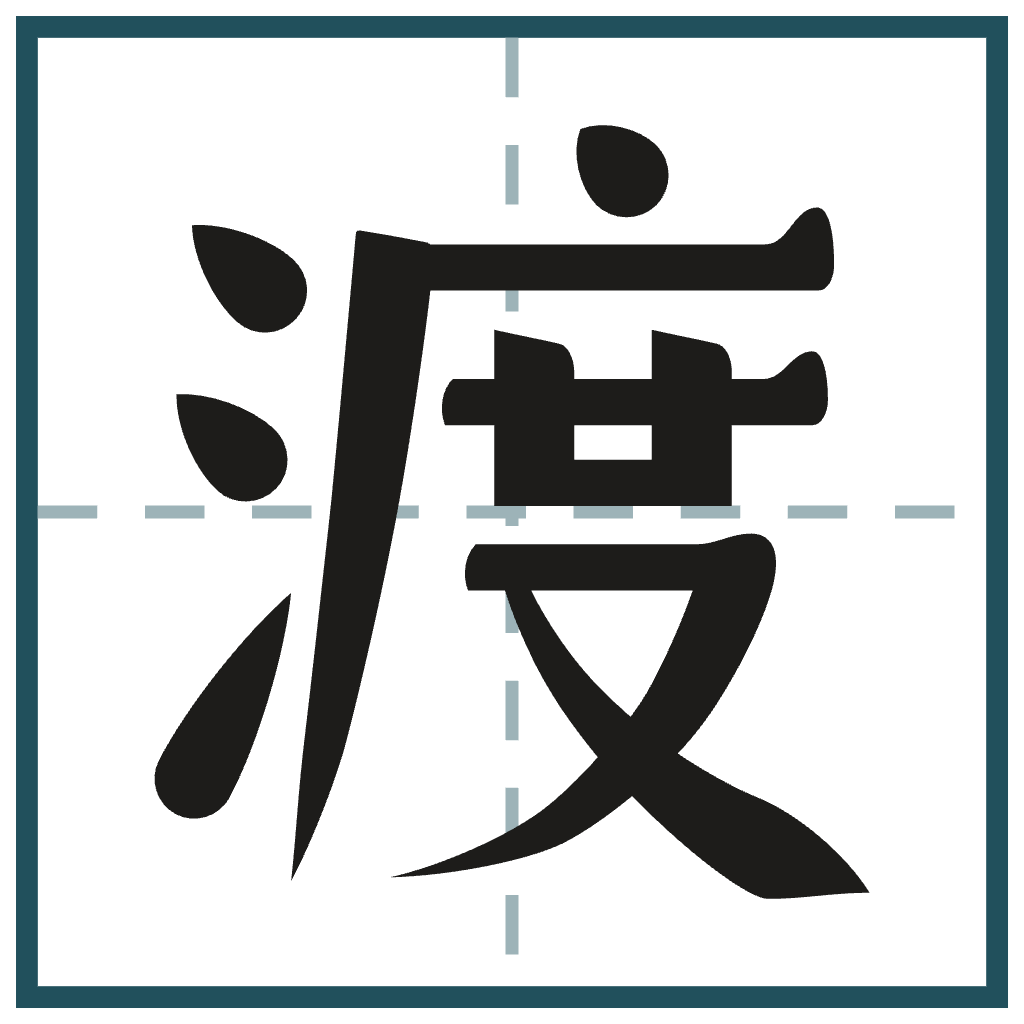
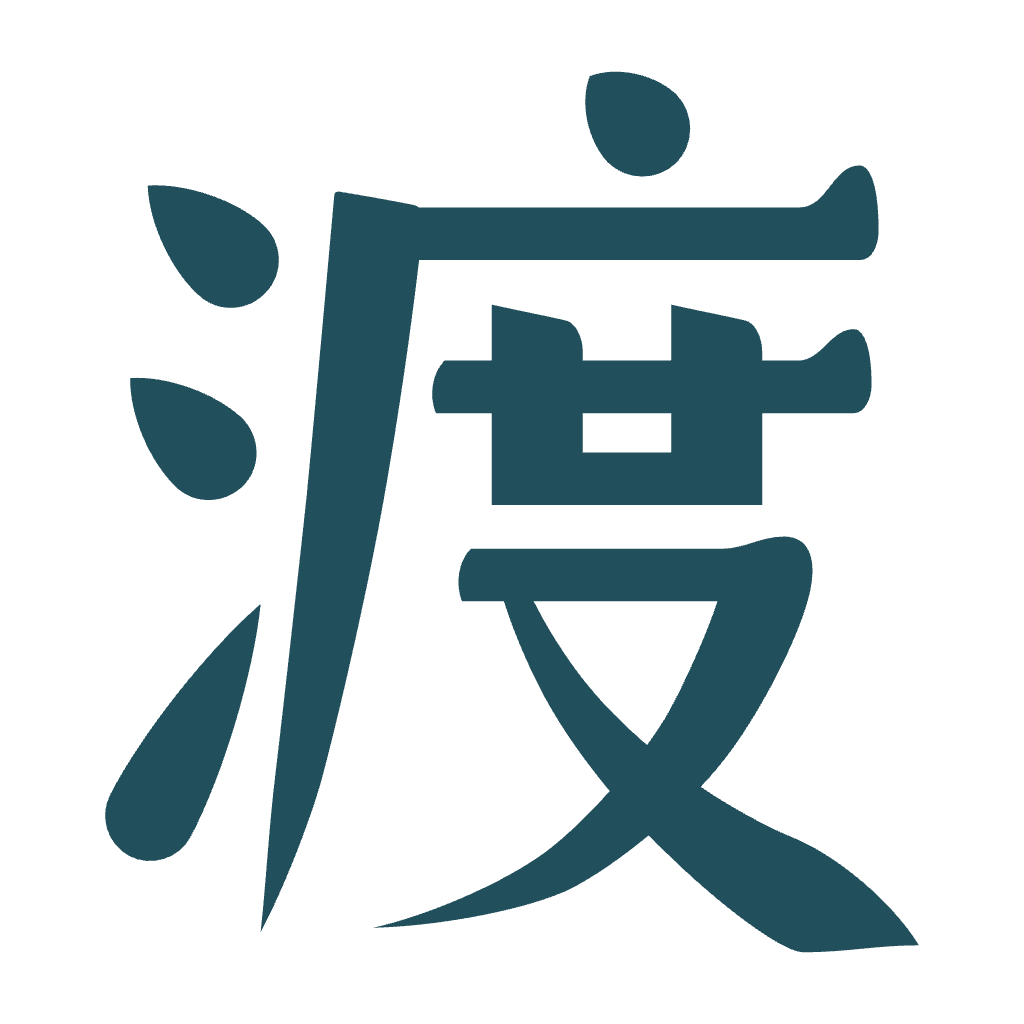
feat: 标志和封面换回两色字标与右边大「渡」，宣传语「一字一言」
- 文字标「Duyan 渡言」：西文墨色、汉字黛青；图标是黛青的「渡」；封面右边一个大「渡」
- 去掉田字格，宣传语改回「一字一言」，README 和小样页一起改
- 用当前字形重新生成（又 修顺、笔画少的字撑开之后的版本）

diff --git a/brand/cover.html b/brand/cover.html
@@ -6,39 +6,37 @@
 <style>
   /* 封面上只用渡言已经有的字；tools/brand.py 出图前会核对 */
   @font-face { font-family: DY; src: url("../sample/Duyan-Sample.otf") format("opentype"); }
-  :root { --ink: #1D1C1A; --paper: #F4F1EA; --accent: #21505C; --grid: #9DB3B8; --muted: #6F6A60; --line: #DED8CC; }
+  :root { --ink: #1D1C1A; --paper: #F4F1EA; --accent: #21505C; --muted: #6F6A60; --line: #DED8CC; }
   * { box-sizing: border-box; }
   html, body { margin: 0; width: 1280px; height: 640px; overflow: hidden; background: var(--paper); color: var(--ink); font-family: DY; }
-  .page { position: relative; width: 1280px; height: 640px; padding: 56px 80px; text-align: center; }
-  .meta { font-size: 15px; letter-spacing: .22em; color: var(--muted); }
-  /* 名字写在田字格里：汉字还在练 */
-  .lockup { display: flex; justify-content: center; align-items: center; gap: 18px; margin-top: 46px; }
-  .box { width: 214px; height: 214px; border: 4px solid var(--accent); font-size: 166px; line-height: 204px; padding-top: 8px;
-         background:
-           repeating-linear-gradient(to bottom, var(--grid) 0 12px, transparent 12px 22px) center / 2.5px 100% no-repeat,
-           repeating-linear-gradient(to right, var(--grid) 0 12px, transparent 12px 22px) center / 100% 2.5px no-repeat; }
-  .latin { font-size: 150px; line-height: 1; margin-left: 40px; font-kerning: normal; }
-  .lead { font-size: 40px; margin: 40px 0 0; }
-  .lead-en { font-size: 23px; margin: 12px 0 0; color: var(--muted); }
-  .spec { position: absolute; left: 80px; right: 80px; bottom: 74px; display: flex; justify-content: center; gap: 44px; font-size: 18px;
-          color: var(--muted); border-top: 1px solid var(--line); padding-top: 20px; }
+  .page { position: relative; width: 1280px; height: 640px; padding: 64px 80px; }
+  .meta { font-size: 15px; letter-spacing: .2em; color: var(--muted); }
+  h1 { font-weight: 400; font-size: 118px; line-height: 1; margin: 40px 0 0; font-kerning: normal; }
+  h1 span { color: var(--accent); margin-left: .26em; }
+  .lead { font-size: 36px; margin: 34px 0 0; }
+  .lead-en { font-size: 26px; margin: 10px 0 0; color: var(--muted); }
+  .big { position: absolute; right: 84px; top: 78px; font-size: 350px; line-height: 1; color: var(--accent); }
+  .spec { position: absolute; left: 80px; right: 80px; bottom: 120px; display: flex; gap: 44px; font-size: 18px; color: var(--muted);
+          border-top: 1px solid var(--line); padding-top: 22px; }
   .spec b { color: var(--accent); font-weight: 400; margin-right: .55em; }
-  .url { position: absolute; left: 0; right: 0; bottom: 34px; font-size: 16px; color: var(--muted); }
+  .sample { position: absolute; left: 80px; right: 80px; bottom: 56px; font-size: 25px; display: flex; justify-content: space-between; }
+  .sample .url { color: var(--muted); font-size: 18px; align-self: flex-end; }
 </style>
 </head>
 <body>
 <div class="page">
   <div class="meta">CHINESE AND LATIN SERIF / V0.7 / 2026.10</div>
-  <div class="lockup"><div class="box">渡</div><div class="box">言</div><div class="latin">Duyan</div></div>
-  <div class="lead">一笔一笔练出来的字。</div>
-  <div class="lead-en">Learning to write, one stroke at a time.</div>
+  <h1>Duyan<span>渡言</span></h1>
+  <div class="lead">一字一言。</div>
+  <div class="lead-en">Every stroke drawn from scratch.</div>
+  <div class="big">渡</div>
   <div class="spec">
-    <span><b>Han</b>106 characters so far</span>
-    <span><b>Latin</b>A–Z a–z 0–9</span>
+    <span><b>Han</b>Song strokes, 106 so far</span>
+    <span><b>Latin</b>Bookish serif, A–Z 0–9</span>
     <span><b>Method</b>One pen, built in code</span>
     <span><b>License</b>SIL OFL 1.1</span>
   </div>
-  <div class="url">github.com/Sorasukiawa/Duyan</div>
+  <div class="sample"><span>山下江边，林中花草。The quick brown fox jumps over the lazy dog.</span><span class="url">github.com/Sorasukiawa/Duyan</span></div>
 </div>
 </body>
 </html>

diff --git a/sample/index.html b/sample/index.html
@@ -56,7 +56,7 @@
 <main>
   <div class="meta">DUYAN DRAFT · 小样 0.7 · 全部字形自绘</div>
   <div class="hero s">渡言 <span>Duyan</span></div>
-  <p class="lead">一笔一笔练出来的字。中文和英文用同一套笔法从零画出：竖粗横细，英文的楔形衬线对应横画末端的喙，英文的球形收笔对应汉字的点。汉字还在练，所以标志写在练字本的田字格里。没有使用任何现成字体的轮廓。</p>
+  <p class="lead">一字一言。中文和英文用同一套笔法从零画出：竖粗横细，英文的楔形衬线对应横画末端的喙，英文的球形收笔对应汉字的点。没有使用任何现成字体的轮廓。</p>
 
   <h2>一字一言</h2>
   <div class="big s">一字一言，天大人文。</div>
@@ -142,7 +142,7 @@
     <li>0.5：补齐英文字母、数字和常用标点，加上字距；N 的斜笔改成等宽的平行四边形。</li>
     <li>0.6：汉字改为按部件造字，做了第一批常用部件和 86 个常用字；「辶」中间那笔画成真正的横折折撇；「月」的框和框里的短横画成一条轮廓（叠着画时 Mac 的系统渲染会把重叠处画成镂空）。</li>
     <li>0.6 之后：定了汉字结构规范（字面框、部件间距、重心范围），左右、上下结构的部件按间距自动摆，出字体前逐字核对；修了「花」「草」部件相撞、「又」的撇捺太直、十几个字的捺脚伸出字身。</li>
-    <li>0.7：宣传语「一笔一笔练出来的字」，标志和封面改成练字本上的田字格；笔画少的字撑开，长横画到字面边上；补了「克」「写」「的」「来」「笔」「练」，新增笔画竖折折钩。</li>
+    <li>0.7：笔画少的字撑开，长横画到字面边上；补了「克」「写」「的」「来」「笔」「练」，新增笔画竖折折钩；标志和封面按新字形重新生成。</li>
     <li>下一步：继续按部件扩常用字，逐批校准；繁中、日文写法不同的字按地区分别画。</li>
   </ul>
 </main>

diff --git a/tools/brand.py b/tools/brand.py
@@ -1,8 +1,8 @@
 #!/usr/bin/env python3
 """生成渡言的文字标、单字图标和宣传封面，全部用渡言自己的字形。
 
-- brand/logo.svg、logo-dark.svg：文字标。「渡言」两个字各写在一个田字格里（练字本的格子：汉字还在练），后面跟西文 Duyan。
-- brand/mark.svg：田字格里一个「渡」，透明底；brand/icon.svg：纸色圆角方块上的同一个图案（头像、网站图标用）。
+- brand/logo.svg、logo-dark.svg：文字标「Duyan 渡言」（西文墨色，汉字黛青）。
+- brand/mark.svg：单字图标「渡」，透明底；brand/icon.svg：纸色圆角方块上的「渡」（头像、网站图标用）。
 - brand/cover.png：宣传封面 / GitHub 社交预览图，由 brand/cover.html 截图得到。
 
 SVG 里的字直接取 sample/Duyan-Sample.otf 的轮廓，不依赖装字体；PNG 用无界面的 Chrome 截图导出
@@ -34,7 +34,6 @@ CHROME = "/Applications/Google Chrome.app/Contents/MacOS/Google Chrome"
 
 INK, PAPER, ACCENT = "#1D1C1A", "#F4F1EA", "#21505C"          # 黛青：呼应「渡」的水色
 INK_DARK, ACCENT_DARK = "#ECE9E2", "#7FB3BE"
-GRID, GRID_DARK = "#9DB3B8", "#4E6A70"     # 田字格中间的虚线：黛青兑上纸色
 
 _font = TTFont(FONT)
 _gs, _cmap, _hmtx = _font.getGlyphSet(), _font.getBestCmap(), _font["hmtx"]
@@ -81,16 +80,6 @@ def mark(x, y, size, ch="渡", fill=ACCENT, fit=0.8):
     return g
 
 
-def tianzige(x, y, size, line=ACCENT, dash=GRID):
-    """田字格：外框实线，中间一横一竖虚线。"""
-    sw = max(2.0, size * 0.022)
-    d = size * 0.06
-    return (f'<g fill="none"><rect x="{x + sw / 2:.2f}" y="{y + sw / 2:.2f}" width="{size - sw:.2f}" height="{size - sw:.2f}" '
-            f'stroke="{line}" stroke-width="{sw:.2f}"/>'
-            f'<path d="M{x + size / 2:.2f} {y + sw:.2f}V{y + size - sw:.2f}M{x + sw:.2f} {y + size / 2:.2f}H{x + size - sw:.2f}" '
-            f'stroke="{dash}" stroke-width="{sw * 0.6:.2f}" stroke-dasharray="{d:.2f} {d * 0.8:.2f}"/></g>')
-
-
 def svg(w, h, body):
     return (f'<svg xmlns="http://www.w3.org/2000/svg" width="{w:.0f}" height="{h:.0f}" '
             f'viewBox="0 0 {w:.0f} {h:.0f}">{body}</svg>\n')
@@ -135,21 +124,20 @@ def main():
     os.makedirs(OUT, exist_ok=True)
     check_cover()
 
-    # 1. 文字标：「渡言」两个字各占一个田字格，后面跟 Duyan
-    box, gap = 150, 12
-    boxes = "".join(tianzige(k * (box + gap), 0, box) + mark(k * (box + gap), 0, box, ch, INK, fit=0.74)
-                    for k, ch in enumerate("渡言"))
-    x0 = 2 * box + gap + 44
-    en, ew, (et, eb) = text("Duyan", 118, x0, box * 0.74, INK)
-    w, h = x0 + ew + 8, box
-    body = boxes + en
+    # 1. 文字标：Duyan 渡言。汉字和西文同字号，汉字的字面本来就比大写略高，正好压得住
+    size, pad = 120, 6
+    en, ew, (et, eb) = text("Duyan", size, 0, 0, INK)
+    gap = size * 0.3
+    zh, zw, (zt, zb) = text("渡言", size, ew + gap, 0, ACCENT)
+    top, bottom = min(et, zt) - pad, max(eb, zb) + pad
+    w, h = ew + gap + zw + pad, bottom - top
+    body = f'<g transform="translate(0 {-top:.2f})">{en}{zh}</g>'
     write("logo.svg", svg(w, h, body))
-    write("logo-dark.svg", svg(w, h, body.replace(INK, INK_DARK).replace(ACCENT, ACCENT_DARK).replace(GRID, GRID_DARK)))
+    write("logo-dark.svg", svg(w, h, body.replace(INK, INK_DARK).replace(ACCENT, ACCENT_DARK)))
 
-    # 2. 单字图标：田字格里一个「渡」
-    write("mark.svg", svg(512, 512, tianzige(8, 8, 496) + mark(8, 8, 496, "渡", INK, fit=0.78)))
-    write("icon.svg", svg(512, 512, f'<rect width="512" height="512" rx="96" fill="{PAPER}"/>'
-                                    + tianzige(72, 72, 368) + mark(72, 72, 368, "渡", INK, fit=0.78)))
+    # 2. 单字图标
+    write("mark.svg", svg(512, 512, mark(0, 0, 512, fit=0.86)))
+    write("icon.svg", svg(512, 512, f'<rect width="512" height="512" rx="96" fill="{PAPER}"/>' + mark(64, 64, 384)))
 
     # 3. PNG 和封面
     httpd, base = serve()

diff --git a/README.md b/README.md
@@ -2,9 +2,9 @@
 
 # 渡言 Duyan
 
-**一笔一笔练出来的字。** 一款从零自绘的中英文衬线字体，正在造字中。
+**一字一言。** 一款从零自绘的中英文衬线字体，正在造字中。
 
-西文是温和、有书卷气的衬线，汉字用同一支笔来写：竖粗横细，点是圆圆的水滴，横画末端带一个圆润的喙。汉字还在练，所以标志写在练字本的田字格里，等字练好了，格子就可以拿掉。名字里的「渡」，是在中文和英文之间摆渡。所有字形都从零画出，没有使用任何现成字体的轮廓。
+西文是温和、有书卷气的衬线，汉字用同一支笔来写：竖粗横细，点是圆圆的水滴，横画末端带一个圆润的喙。汉字还在一个字一个字地补齐、打磨。名字里的「渡」，是在中文和英文之间摆渡。所有字形都从零画出，没有使用任何现成字体的轮廓。
 
 [设计与造字方式](docs/DESIGN.md) · [汉字结构规范](docs/STRUCTURE.md) · [English](#english)
 
@@ -40,7 +40,7 @@ python3 -m http.server 8766
 
 ## 标志和封面
 
-[`brand/`](brand/) 里是文字标（`logo.svg`，深色背景用 `logo-dark.svg`）、单字图标（`mark.svg`、`icon.svg`）和封面（`cover.png`）。标志的样子取自小朋友练字用的田字格：文字标是「渡言」两个字各写在一个田字格里、后面跟 Duyan，单字图标是田字格里的「渡」。字都直接取渡言自己的字形轮廓，由 `python3 tools/brand.py` 生成。
+[`brand/`](brand/) 里是文字标（`logo.svg`，深色背景用 `logo-dark.svg`）、单字图标（`mark.svg`、`icon.svg`）和封面（`cover.png`）。文字标是两色的「Duyan 渡言」：西文墨色，汉字黛青；单字图标是黛青的「渡」。字都直接取渡言自己的字形轮廓，由 `python3 tools/brand.py` 生成。
 
 ## 自己构建
 
@@ -66,6 +66,6 @@ python3 build.py
 
 ## English
 
-Duyan (渡言, "words that ferry across") is a serif typeface for Chinese and Latin, drawn from scratch with code. The Latin is a calm, bookish serif; the Chinese is written with the same pen and is still learning: heavy verticals and light horizontals, round teardrop dots, a soft beak at the end of each horizontal. Until the Chinese grows up, the logo sits in a tianzige, the grid children use to practise writing. No outlines from existing fonts are used.
+Duyan (渡言, "words that ferry across") is a serif typeface for Chinese and Latin, drawn from scratch with code. The Latin is a calm, bookish serif; the Chinese is written with the same pen and is still growing, one character at a time: heavy verticals and light horizontals, round teardrop dots, a soft beak at the end of each horizontal. No outlines from existing fonts are used.
 
 It is an early work in progress (v0.7): basic Latin letters, figures and punctuation with kerning, and the first 106 Chinese characters. Build it with `pip3 install -r requirements.txt` and `python3 build.py`. Logo, icon and cover live in [`brand/`](brand/), generated from the font's own outlines. Licensed under the [SIL Open Font License 1.1](OFL.txt).
